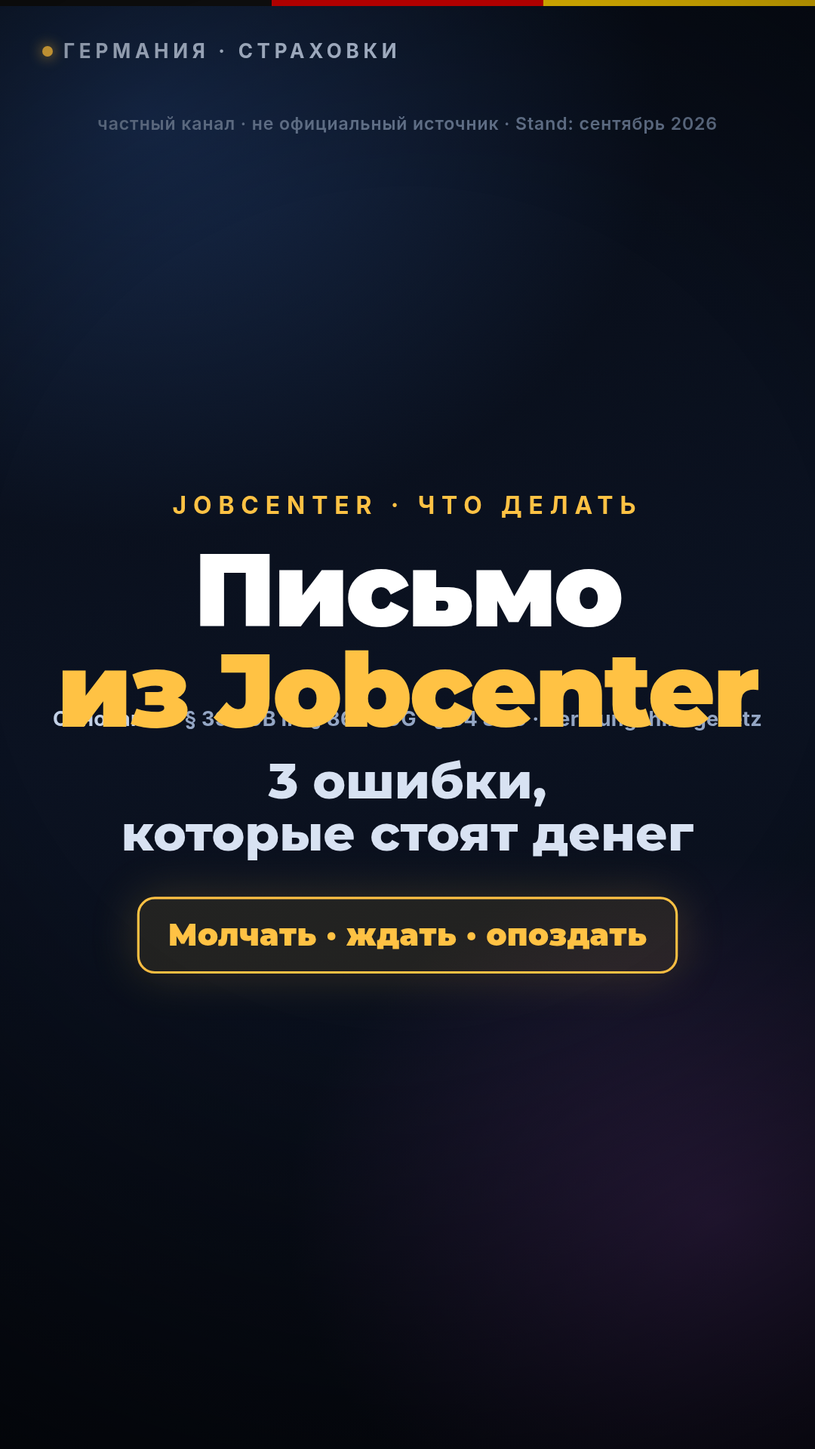
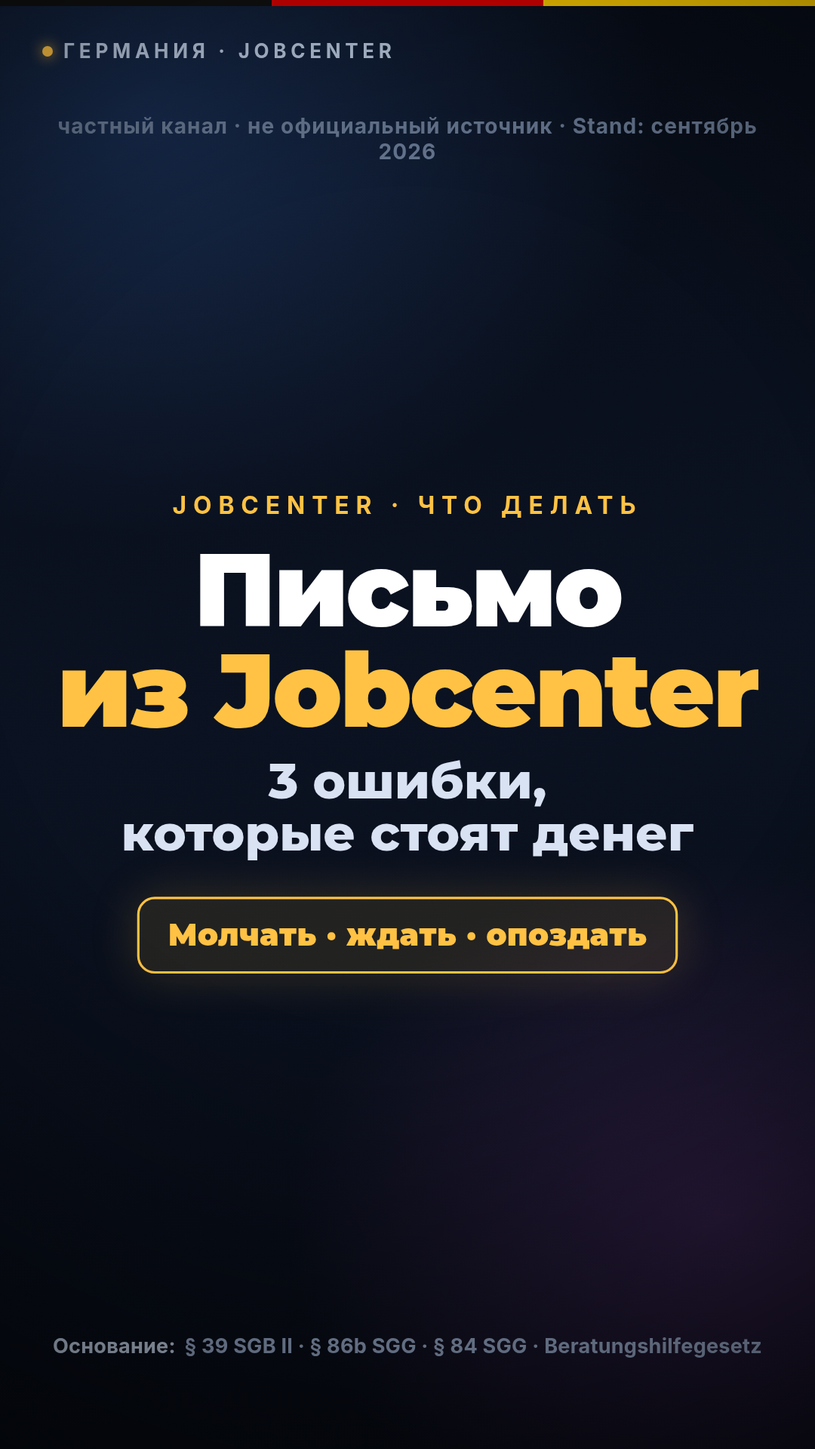
Закрыть производственные дефекты, найденные повторной проверкой
Починено то, что проверяемо без текста закона:
- зелёная карточка «Eilantrag» раскрывалась на 3,9 с раньше реплики —
  в таблице поэтапного раскрытия стоял s06 вместо s07;
- кегль субтитра считался по каждой строке отдельно, из-за чего в пяти
  блоках вторая строка выходила крупнее первой; теперь по длинной строке;
- кегли оговорок подняты: сноски 36, «нужен взнос» 36, дисклеймер 34,
  пометка о частном канале 28 px;
- текст дисклеймера говорил про изменения в законе — ролик не о них;
- главы в описании отставали до 4,4 с и не отрисовались бы — убраны;
- убрано утверждение «факты проверены автором»;
- добавлены инструкции про AIGC-переключатель TikTok и Impressum.

Снято неверное утверждение README о том, что нормы реформой не затронуты:
§ 39 SGB II изменён Art. 1a закона от 16.04.2026, § 32 в новой редакции.

BLOCKERS.md: что закрыто, какие восемь правовых пунктов остались и по каким
документам их сверять. Отдельно зафиксировано, что проверяющие разошлись
в сроке фикции вручения — три дня против четырёх.

Файлы в out/ помечены как устаревшие: видео не пересобиралось, потому что
формулировки зависят от несверенных норм.

Claude-Session: https://claude.ai/code/session_01Tg6foRoszCssswtmB7trrv

diff --git a/videos/2026-09-jobcenter-brief/build/scene.css b/videos/2026-09-jobcenter-brief/build/scene.css
@@ -26,7 +26,7 @@ body{font-family:Int,'DejaVu Sans',sans-serif;-webkit-font-smoothing:antialiased
 
 /* ---------- art area ---------- */
 #art{position:absolute;left:0;right:0;top:268px;height:1000px}
-.unoff{position:absolute;top:150px;left:56px;right:56px;text-align:center;font:600 23px Int;color:#66768F;letter-spacing:.04em}
+.unoff{position:absolute;top:150px;left:56px;right:56px;text-align:center;font:700 28px Int;color:#66768F;letter-spacing:.04em}
 .scene{position:absolute;inset:0;display:flex;flex-direction:column;align-items:center;justify-content:center;opacity:0;will-change:transform,opacity}
 
 /* cover */
@@ -118,7 +118,7 @@ body{font-family:Int,'DejaVu Sans',sans-serif;-webkit-font-smoothing:antialiased
 .outro .src{width:860px;border:2px solid var(--line);border-radius:24px;background:rgba(17,26,43,.86);padding:30px 34px}
 .outro .src u{display:block;font:800 24px Int;letter-spacing:.16em;color:var(--mut);text-transform:uppercase;text-decoration:none}
 .outro .src p{font:700 30px Int;color:#D5E1F2;margin-top:12px;line-height:1.36}
-.outro .disc{font:600 27px Int;color:#8FA1BE;max-width:820px;line-height:1.4}
+.outro .disc{font:600 34px Int;color:#8FA1BE;max-width:820px;line-height:1.4}
 .outro .cta{margin-top:6px;padding:24px 46px;border-radius:22px;background:linear-gradient(90deg,var(--amber),var(--amber2));
   font:900 44px Mont;color:#1A1204;box-shadow:0 20px 60px rgba(255,165,31,.3)}
 
@@ -222,7 +222,7 @@ body{font-family:Int,'DejaVu Sans',sans-serif;-webkit-font-smoothing:antialiased
 .mrow .n{width:72px;height:72px;border-radius:20px;display:flex;align-items:center;justify-content:center;
   font:900 40px Mont;background:rgba(255,90,95,.14);color:var(--red)}
 .mrow .t{font:800 38px Mont;color:#E2EAF7;line-height:1.16}
-.mrow .t small{display:block;font:600 34px Int;color:#9FB1CD;margin-top:8px;line-height:1.3}
+.mrow .t small{display:block;font:600 36px Int;color:#9FB1CD;margin-top:8px;line-height:1.3}
 .mrow.ok{border-color:rgba(53,208,127,.55);background:rgba(53,208,127,.07)}
 .mrow.ok .n{background:rgba(53,208,127,.16);color:var(--green)}
 .norm{margin-top:8px;display:inline-block;padding:16px 28px;border-radius:16px;border:2px solid var(--amber);
@@ -237,7 +237,7 @@ body{font-family:Int,'DejaVu Sans',sans-serif;-webkit-font-smoothing:antialiased
 .orgrow .names{font:900 42px Mont;color:#E4ECF9}
 .orgrow.free{border-color:rgba(53,208,127,.55)} .orgrow.free u{color:var(--green)}
 .orgrow.paid{border-color:rgba(255,194,68,.5)} .orgrow.paid u{color:var(--amber)}
-.orgrow.paid .names small{display:block;font:600 29px Int;color:#9FB1CD;margin-top:10px}
+.orgrow.paid .names small{display:block;font:600 36px Int;color:#9FB1CD;margin-top:10px}
 .fin{display:flex;flex-direction:column;align-items:center;gap:30px;text-align:center}
 .fin .big{font:900 66px Mont;color:#fff;line-height:1.14;max-width:860px}
 .fin .em{color:var(--amber)}

diff --git a/videos/2026-09-jobcenter-brief/build/render.js b/videos/2026-09-jobcenter-brief/build/render.js
@@ -14,8 +14,9 @@ function build(line){
   const rows=line.sub.split('\n');
   const hlTok=new Set(); (line.hl||[]).forEach(h=>h.split(/\s+/).forEach(t=>hlTok.add(t.replace(/[.,!?»«"]+$/,''))));
   let n=0; rows.forEach(r=>n+=r.trim().split(/\s+/).length);
+  const Lmax=Math.max(...rows.map(r=>r.trim().length));
+  const fs = Lmax<=24?62 : Lmax<=32?55 : Lmax<=40?47 : Lmax<=48?42 : 38;
   let i=0; const html=rows.map(r=>{
-    const L=r.trim().length; const fs = L<=24?62 : L<=32?55 : L<=42?47 : 41;
     return '<div class="subline" style="font-size:'+fs+'px">'+r.trim().split(/\s+/).map(w=>{
       const bare=w.replace(/[.,!?»«"]+$/,'');
       let cls='w'; if(hlTok.has(bare)) cls+= LAT.test(bare)?' g':' k';
@@ -70,7 +71,7 @@ window.render=function(t){
     el.style.opacity=k; el.style.transform='translateY('+(26*(1-k))+'px) scale('+(0.95+0.05*k)+')'; };
 
   // три ошибки: сначала «ошибка», затем «как надо» — по репликам
-  const P=[['e1','e1b','s03','s04'],['e2','e2b','s05','s06'],['e3','e3b','s08','s09']];
+  const P=[['e1','e1b','s03','s04'],['e2','e2b','s05','s07'],['e3','e3b','s08','s09']];
   for(const [bad,good,la,lb] of P){
     show(q(bad),  at(la).start-0.20);
     show(q(good), at(lb).start-0.15);

diff --git a/videos/2026-09-jobcenter-brief/build/scene.html b/videos/2026-09-jobcenter-brief/build/scene.html
@@ -71,7 +71,7 @@
     <div class="scene" data-s="outro">
       <div class="outro">
         <div class="src"><u>Основание</u><p>§ 39 SGB II · § 86b SGG · § 84, § 66 SGG<br>Beratungshilfegesetz · BVerfG 1 BvR 1370/21</p></div>
-        <div class="disc">Это общая информация об изменениях в законе, а не юридическая консультация.
+        <div class="disc">Это общая информация, а не юридическая консультация.
           Автор — не юрист. Вашу ситуацию оценит только Beratungsstelle или адвокат.
           Индивидуальные случаи в комментариях не разбираем.</div>
         <div class="cta">Подписывайтесь</div>

diff --git a/videos/2026-09-jobcenter-brief/BLOCKERS.md b/videos/2026-09-jobcenter-brief/BLOCKERS.md
@@ -1,0 +1,49 @@
+# Что закрыто и что осталось · «Письмо из Jobcenter»
+
+Две независимые проверки (правовая и качественная) заблокировали версию от 06.09.2026.
+Ниже — фактическое состояние, без округления в свою пользу.
+
+## Закрыто (проверено и исправлено в исходниках)
+
+| Что | Где было | Статус |
+|---|---|---|
+| Обложка рендерилась с текстом поперёк заголовка: `.footer` имел `top` в CSS и `bottom` в `cover.py`, бокс растягивался на весь кадр | `build/cover.py` | исправлено |
+| Неверный номер решения BVerfG: `1 BvR 1358/21` → **`1 BvR 1370/21`** (Beschluss v. 04.04.2022) | `scene.html`, `DESCRIPTION.md` | исправлено |
+| Чип «Германия · страховки» — остаток прошлого выпуска, ролик не о страховании | `scene.html` | исправлено |
+| Зелёная карточка «Eilantrag» появлялась на **3,9 с раньше** реплики: в таблице раскрытия стояло `s06` вместо `s07` | `render.js` | исправлено |
+| Кегль субтитра считался по каждой строке отдельно — в 5 блоках вторая строка была крупнее первой | `render.js` | исправлено, считается по самой длинной строке блока |
+| Кегли оговорок: сноски 34→36, «нужен взнос» 29→36, дисклеймер 27→34, «частный канал» 23→28 px | `scene.css` | исправлено |
+| Текст дисклеймера «об изменениях в законе» — не про этот ролик | `scene.html` | исправлено |
+| Главы в описании отставали до 4,4 с и не отрисовались бы (первая короче 10 с) | `DESCRIPTION.md` | главы убраны |
+| «Факты проверены автором» — после ошибки с номером BVerfG утверждение неверно | `DESCRIPTION.md` | убрано |
+| Утверждение «нормы реформой не затронуты» — неверно: § 39 изменён 16.04.2026, § 32 в новой редакции | `README.md` | исправлено на честное |
+| Не было инструкции про AIGC-переключатель TikTok и про Impressum | `DESCRIPTION.md` | добавлено |
+
+## Не закрыто — требует сверки по первоисточнику
+
+Это нельзя починить редактированием: нужны тексты норм, недоступные из окружения сборки.
+
+| № | Утверждение в ролике | Что не так | Что проверить |
+|---|---|---|---|
+| 1 | «Остановить может **только** Eilantrag» | Неверно. По **§ 86a Abs. 3 SGG** приостановить исполнение может сам орган — об этом просят прямо в Widerspruch, бесплатно и без суда | § 86a Abs. 3 SGG |
+| 2 | «Нет денег на адвоката — Beratungshilfeschein» сразу после совета идти в суд | Beratungshilfe покрывает **досудебное** (Widerspruch). Для суда нужна **Prozesskostenhilfe** (§ 73a SGG). Не сказано и главное: производство в Sozialgericht **без пошлин** (§ 183 SGG) и **без обязательного адвоката** | § 73a SGG, § 183 SGG |
+| 3 | «Месяц **с момента вручения**» | Срок течёт с **Bekanntgabe**, для почтовых отправлений действует фикция по § 37 Abs. 2 SGB X. **Проверяющие разошлись: один назвал 3 дня, другой 4** (после Postrechtsmodernisierungsgesetz). Пока цифра не подтверждена — формулировать нельзя | § 84 SGG, § 37 Abs. 2 SGB X |
+| 4 | «Beratungshilfeschein в Amtsgericht» | В **Гамбурге и Бремене** Beratungshilfe не выдают — там öffentliche Rechtsberatung (§ 12 BerHG). Для значимой части аудитории совет неисполним | § 12 BerHG |
+| 5 | «Возражение не останавливает удержание» | Верно для решений о снижении/отмене/возврате, но § 39 SGB II — **закрытый перечень**. При Aufrechnung и Erstattung отлагательное действие может быть. Слово «удержание» выбрано неудачно | § 39 SGB II в редакции после 16.04.2026 |
+| 6 | «Болезнь, ребёнок, работа — это wichtiger Grund. С ним санкции нет» | Подано как гарантия. Это оценочная категория, причину надо изложить и доказать | § 31 Abs. 1 S. 2 / § 32 Abs. 1 S. 2 SGB II (новая редакция) |
+| 7 | «Нет разъяснения о сроке — срок длиннее» | Недосказано: § 66 SGG даёт **один год** | § 66 Abs. 2 SGG |
+| 8 | Ответа «а если месяц уже прошёл» в ролике нет | Не названы **Überprüfungsantrag § 44 SGB X** (работает без срока возражения) и Wiedereinsetzung § 67 SGG. Это, по оценке проверки, полезнее третьей ошибки | § 44 SGB X, § 67 SGG |
+
+## Что открыть (доступно из обычного немецкого интернета)
+
+- https://www.gesetze-im-internet.de/sgb_2/__39.html
+- https://www.gesetze-im-internet.de/sgg/__86a.html · https://www.gesetze-im-internet.de/sgg/__84.html · https://www.gesetze-im-internet.de/sgg/__66.html
+- https://www.gesetze-im-internet.de/sgb_10/__37.html — здесь же решается спор 3 или 4 дня
+- https://www.gesetze-im-internet.de/sgb_10/__44.html
+- https://www.gesetze-im-internet.de/berhg/__12.html
+- https://www.bundesverfassungsgericht.de/SharedDocs/Entscheidungen/DE/2022/04/rk20220404_1bvr137021.html
+
+## Условие приёмки от качественной проверки
+
+Готовый MP4 никем из проверяющих не открывался — в их окружении нет декодера. Повторная приёмка
+возможна только с отрендеренными кадрами каждой сцены (`build/preview/`) и обновлённой обложкой.

diff --git a/videos/2026-09-jobcenter-brief/README.md b/videos/2026-09-jobcenter-brief/README.md
@@ -1,3 +1,6 @@
+> **СТАТУС: НЕ ДОПУЩЕН К ПУБЛИКАЦИИ.** Правовая и качественная проверки заблокировали и эту версию.
+> Файлы в `out/` устарели относительно исходников и содержат неисправленные ошибки. Список — в [BLOCKERS.md](BLOCKERS.md).
+
 # Видео: «Письмо из Jobcenter — 3 ошибки, которые стоят денег»
 
 Вертикальный ролик 9:16 для TikTok / YouTube Shorts. Аудитория — русскоязычные жители Германии.
@@ -10,18 +13,22 @@
 из этого окружения, а поисковая выдача смешивает редакции до и после 01.07.2026.
 Подробности и список того, что надо сверить — в [`../2026-09-grundsicherung-2026/VERIFY.md`](../2026-09-grundsicherung-2026/VERIFY.md).
 
-Этот выпуск построен так, чтобы **не зависеть от спорного**. Все нормы, на которые он опирается,
-реформа 01.07.2026 не меняла — значит, путаницы редакций в источниках по ним нет.
+Этот выпуск построен так, чтобы **меньше зависеть от спорного**.
+
+> **Поправка после проверки.** Исходно здесь стояло утверждение, что реформа 01.07.2026 эти нормы
+> не меняла. Оно неверно: **§ 39 SGB II изменён Art. 1a закона от 16.04.2026** (BGBl. 2026 I Nr. 107),
+> § 32 SGB II изложен в новой редакции. Существо норм, судя по вторичным источникам, сохранено,
+> но **точная действующая редакция по первоисточнику не сверена**.
 
 ## На чём построен ролик
 
 | Утверждение | Норма | Статус |
 |---|---|---|
-| Widerspruch **не приостанавливает** удержание | § 39 SGB II (Sofortige Vollziehbarkeit) | действует давно, реформой не затронута |
-| Приостановить может Eilantrag в Sozialgericht | § 86b Abs. 1 SGG | то же |
-| Срок Widerspruch — месяц с момента вручения | § 84 SGG | то же |
-| Нет или неверна Rechtsbehelfsbelehrung → срок длиннее | § 66 SGG | то же |
-| Beratungshilfeschein в Amtsgericht, доля клиента максимум 15 € | Beratungshilfegesetz, § 44 RVG / Nr. 2500 VV RVG | то же |
+| Widerspruch **не приостанавливает** удержание | § 39 SGB II (Sofortige Vollziehbarkeit) | существо устойчиво; редакция изменена 16.04.2026, **не сверена** |
+| Приостановить может Eilantrag в Sozialgericht | § 86b Abs. 1 SGG | существо устойчиво, по первоисточнику не сверено |
+| Срок Widerspruch — месяц с момента вручения | § 84 SGG | существо устойчиво, по первоисточнику не сверено |
+| Нет или неверна Rechtsbehelfsbelehrung → срок длиннее | § 66 SGG | существо устойчиво, по первоисточнику не сверено |
+| Beratungshilfeschein в Amtsgericht, доля клиента максимум 15 € | Beratungshilfegesetz, § 44 RVG / Nr. 2500 VV RVG | существо устойчиво, по первоисточнику не сверено |
 | Отказ в Beratungshilfe для соцправового Widerspruch неконституционен | BVerfG, 1 BvR 1358/21 (2022) | решение опубликовано |
 | С 01.07.2026 санкции стали жёстче | 13. SGB-II-Änderungsgesetz | **общее** утверждение без спорных деталей |
 | wichtiger Grund исключает санкцию | § 31 Abs. 1 S. 2 / § 32 Abs. 1 S. 2 SGB II | принцип устойчив |

diff --git a/videos/2026-09-jobcenter-brief/out/DESCRIPTION.md b/videos/2026-09-jobcenter-brief/out/DESCRIPTION.md
@@ -13,7 +13,7 @@
 
 Основание: § 39 SGB II · § 86b SGG · § 84, § 66 SGG · Beratungshilfegesetz. Stand: сентябрь 2026.
 Частный канал, не официальный источник. Я не юрист, это общая информация — индивидуальные случаи в комментариях не разбираем.
-Озвучка и графика созданы с помощью ИИ, факты проверены автором.
+Озвучка и графика созданы с помощью ИИ.
 
 #германия #jobcenter #grundsicherung #бургергельд #жизньвгермании #русскиевгермании #права #социалка
 
@@ -24,16 +24,14 @@
 **Описание:**
 Три ошибки, которые чаще всего допускают при письме или Bescheid из Jobcenter — и что делать вместо них.
 
-0:00 Письмо пришло
-0:09 Ошибка 1 — промолчать
-0:20 Ошибка 2 — Widerspruch без Eilantrag
-0:33 Ошибка 3 — пропустить срок
-0:42 Beratungshilfeschein: ваша доля максимум 15 €
-0:50 Где консультируют бесплатно
 
 Основание: § 39 SGB II (Sofortige Vollziehbarkeit), § 86b Abs. 1 SGG, § 84 и § 66 SGG, Beratungshilfegesetz, BVerfG 1 BvR 1370/21. Stand: сентябрь 2026.
 
 Это частный канал и не официальный источник. Автор — не юрист; ролик даёт общую информацию, а не юридическую консультацию. Вашу ситуацию оценит Beratungsstelle или адвокат. Индивидуальные случаи в комментариях не разбираем.
-Озвучка и графика созданы с помощью ИИ; факты проверены автором.
+Озвучка и графика созданы с помощью ИИ.
 
-**Отметить при загрузке:** «Altered or synthetic content» — по справке YouTube для синтетической озвучки метка не требуется, но поставить безопаснее.
+**Impressum:** ссылку на страницу Impressum поставить в Bio профиля (§ 5 DDG, § 18 MStV).
+
+**Отметить при загрузке:** на TikTok включить переключатель «AI-generated content» — текстовой пометки в описании недостаточно.
+
+**YouTube:** «Altered or synthetic content» — по справке YouTube для синтетической озвучки метка не требуется, но поставить безопаснее.
